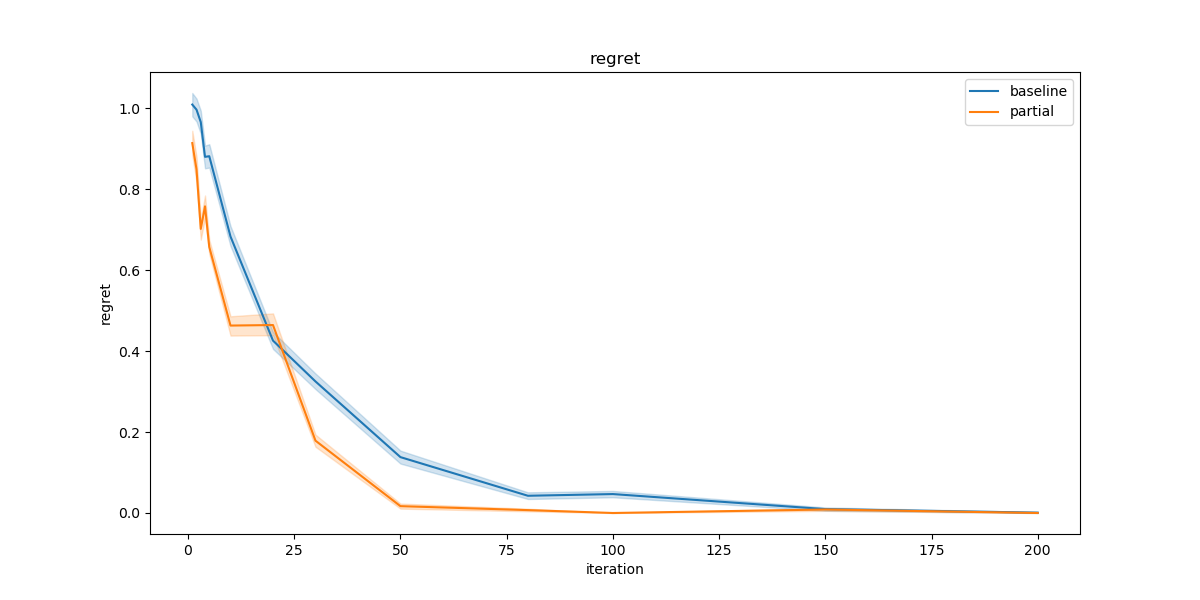
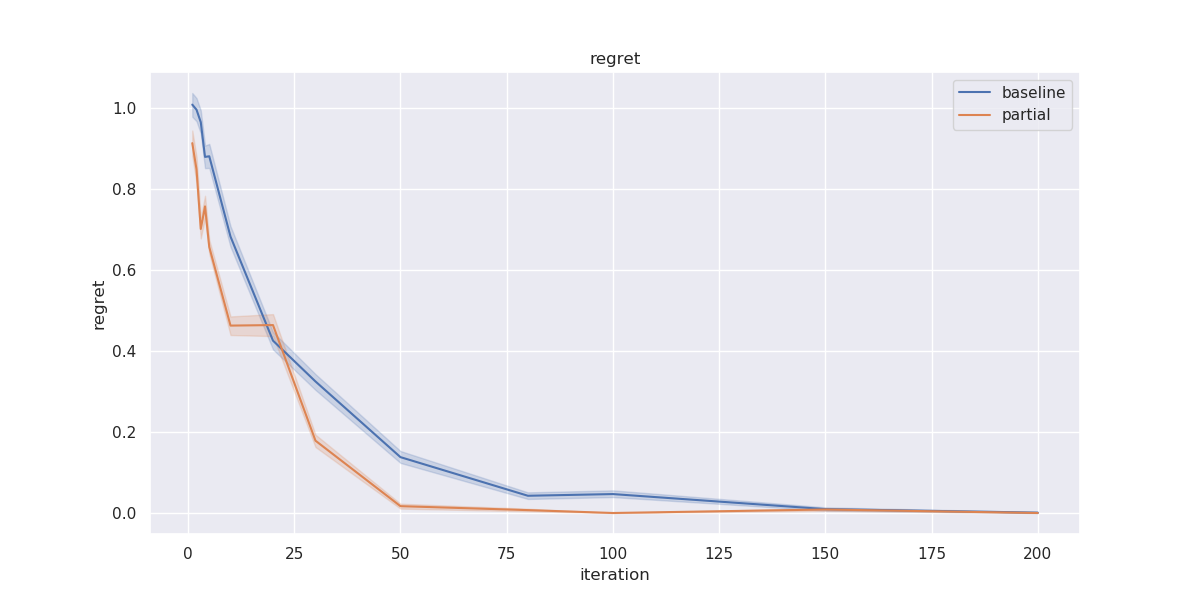
update of the readme

diff --git a/main.py b/main.py
@@ -38,6 +38,7 @@ def simulate(iteration=100,
 #     print(results_full)
 
 def plot():
+    sb.set()
     full = pd.read_csv("outputs/full.csv")
     partial = pd.read_csv("outputs/partial.csv")
     for metric in ['top1', 'top5', 'correlation', 'regret']:

diff --git a/README.md b/README.md
@@ -24,7 +24,7 @@ python main.py plot
 ![Top 1](outputs/top1.png)
 ![Top 5](outputs/top5.png)
 ![Regret](outputs/regret.png)
-![Correlation](outputs/top1.png)
+![Correlation](outputs/correlation.png)
 
 ## Project implementation structure 
 ```
